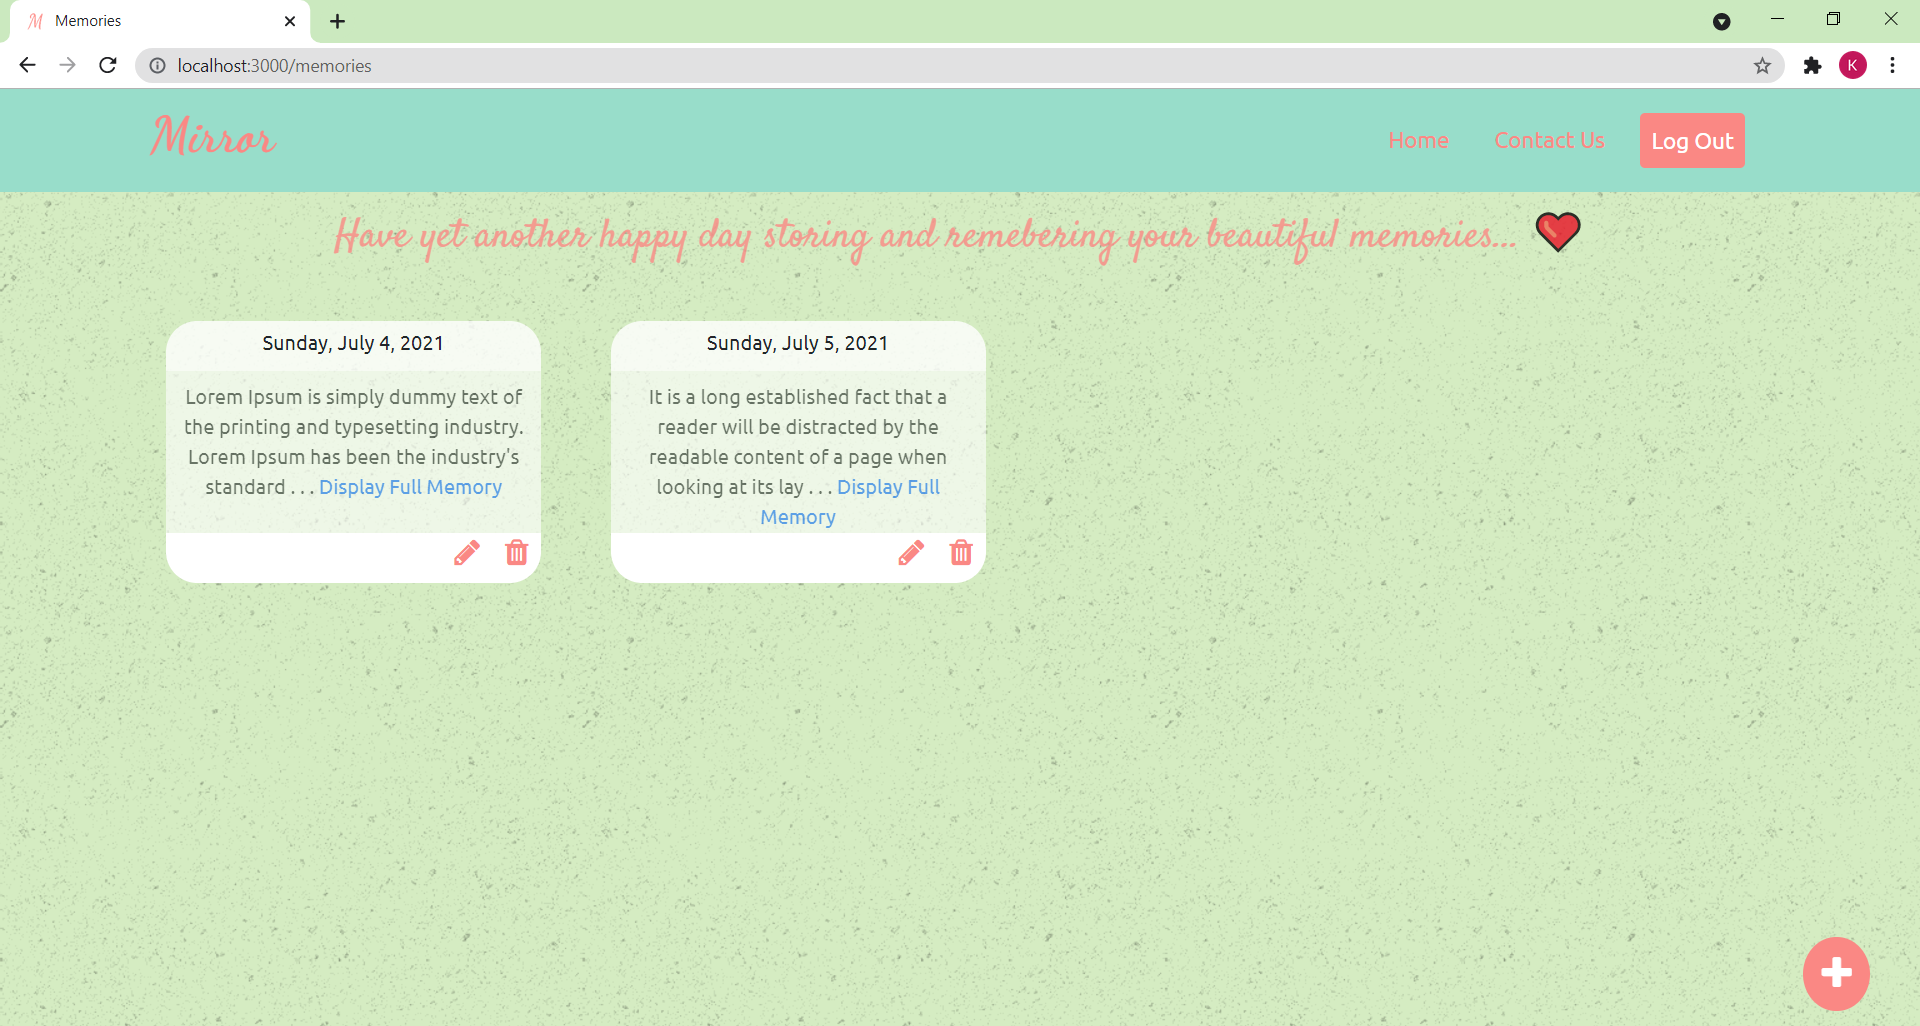
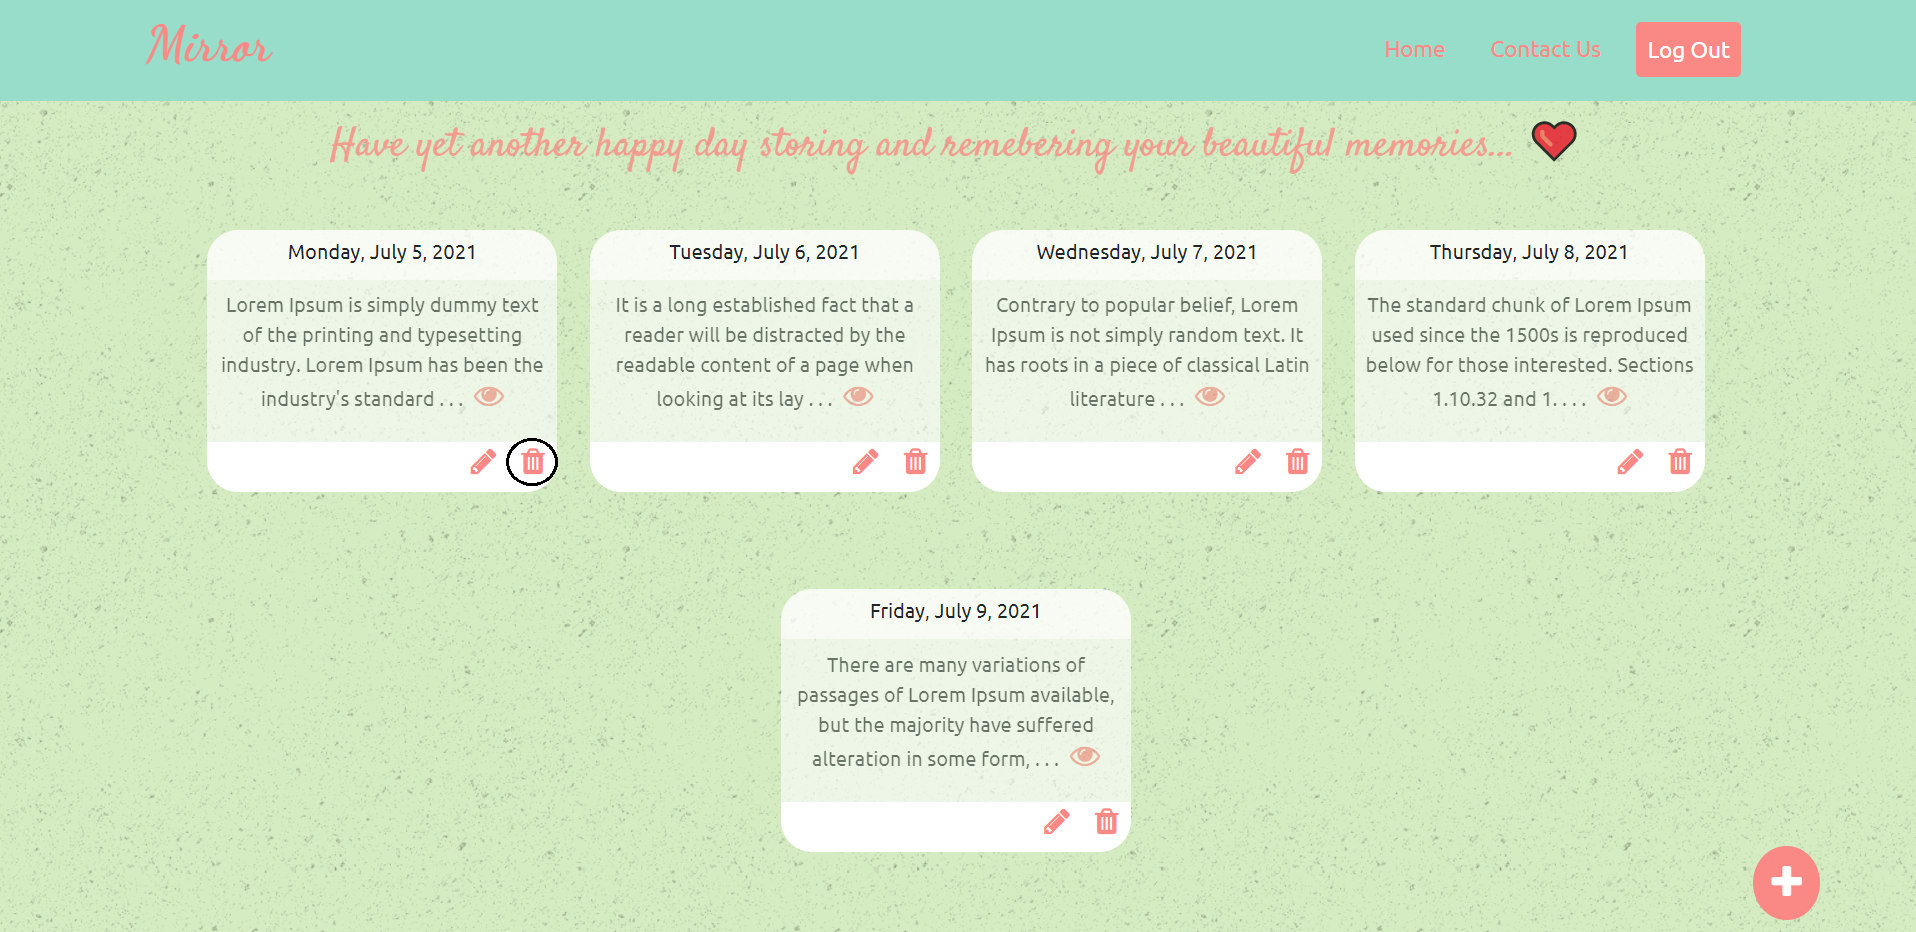
Final website for now

diff --git a/app.js b/app.js
@@ -23,7 +23,8 @@ app.use(session({
 app.use(passport.initialize());
 app.use(passport.session());
 
-mongoose.connect('mongodb://localhost:27017/memoriesDB', {
+const uri = "mongodb+srv://"+process.env.USER+":"+process.env.PASSWORD+"@cluster0.8g9lv.mongodb.net/memoriesDB?retryWrites=true&w=majority"
+mongoose.connect(uri, {
   useFindAndModify: false,
   useCreateIndex: true,
   useNewUrlParser: true,
@@ -96,23 +97,13 @@ app.post("/new", (req, res) => {
   })
 });
 
-app.post("/edit-this-memory", (req, res) => {
-  editMemoryId = req.body.editMemoryId;
-  res.redirect("edit");
-})
-app.get("/edit", (req, res) => {
-  Person.findOne({_id: loggedInPerson, "memories._id": editMemoryId}, (err, person) => {
+app.get("/edit/:id", (req, res) => {
+  editMemoryId = req.params.id;
+  Person.findOne({_id: loggedInPerson, "memories._id": editMemoryId}, {"memories.$": 1}, (err, person) => {
     if(!err){
-      let index = -1;
-      for(let i=0 ; i<person.memories.length ; i++){
-        if(person.memories[i]._id == editMemoryId){
-          index = i;
-          break;
-        }
-      }
-      res.render("edit", {memory: person.memories[index]});
+      res.render("edit", {memory: person.memories[0]});
     }
-  })
+  });
 })
 app.post("/edit", (req, res) => {
   Person.findOneAndUpdate({_id: loggedInPerson, "memories._id": editMemoryId},
@@ -122,17 +113,16 @@ app.post("/edit", (req, res) => {
                           (err, result) => {
                               res.redirect("/memories");
   });
-
 })
-app.post("/delete", (req, res) => {
-  console.log(req.body[0]);
 
-  Person.updateOne({_id: loggedInPerson}, {$pull: {memories: { _id: req.body.deleteMemoryId}}}, (err, result) => {
+app.get("/delete/:id", (req, res) => {
+  Person.updateOne({_id: loggedInPerson}, {$pull: {memories: { _id: req.params.id}}}, (err, result) => {
     if(!err){
       res.redirect("/memories");
     }
   })
 })
+
 app.get("/signin", (req, res) => {
   res.render("signin");
 })
@@ -222,5 +212,5 @@ app.get("/signout", (req, res) => {
 })
 
 app.listen(process.env.PORT || 3000, () => {
-  console.log("Server is running at port 3000");
+  console.log("Server is running");
 })

diff --git a/public/css/styles.css b/public/css/styles.css
@@ -80,11 +80,15 @@ a{
   color:#fa8884;
   opacity: 0.8;
 }
+.memories{
+  display: flex;
+  justify-content: center;
+  flex-wrap: wrap;
+  text-align: center;
+}
 .memory-display{
   display: inline-block;
-  margin: 1%;
-  margin-top: 3%;
-  margin-right: 3%;
+  margin: 3% 1%;
 }
 .memory-date{
   text-align: center;
@@ -93,7 +97,7 @@ a{
   background-color: rgba(255, 255, 255, 0.8);
   margin-bottom: 0;
   padding-top: 2%;
-  width: 300px;
+  width: 280px;
   height: 40px;
 }
 .memory-description{
@@ -104,8 +108,13 @@ a{
   opacity: 0.6;
   margin-bottom: 0;
   padding: 3% 2% 2% 2%;
-  width: 300px;
+  width: 280px;
   height: 130px;
+}
+.display-icon{
+  font-size: 1.5em;
+  color: #fa8884;
+  margin-left: 5px;
 }
 .icons{
   display: flex;
@@ -113,7 +122,7 @@ a{
   background-color: #fff;
   border-radius: 0 0 25px 25px;
   margin: 0;
-  width: 300px;
+  width: 280px;
   height: 40px;
 }
 .icons .fa{
@@ -127,7 +136,7 @@ a{
 }
 .add-memory{
 	position:fixed;
-  right: 40px;
+  right: 5vw;
   bottom: 0px;
 	padding:0px;
 	margin:0px;
